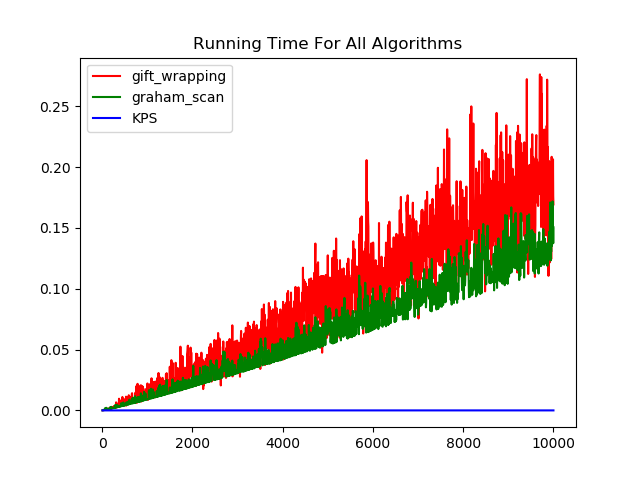
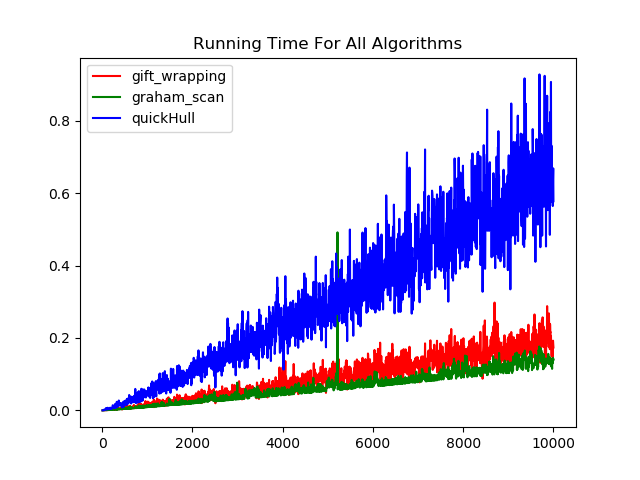
graphs generated

diff --git a/main.py b/main.py
@@ -1,8 +1,26 @@
 import time as t
 import matplotlib.pyplot as p
+# import pandas as pd
 from DataGeneration import DataGeneration
 from giftwrapping import gift_wrapping
 from graham_scan import graham_scan
+from quickHull2 import quickHull
+
+
+# def _Smoothen(numbers):
+# 	# Function to smoothen graphs using
+# 	# moving averages
+
+# 	window_size = len(numbers)
+
+# 	numbers_series = pd.Series(numbers)
+# 	windows = numbers_series.rolling(window_size)
+# 	moving_averages = windows.mean()
+
+# 	moving_averages_list = moving_averages.tolist()
+# 	without_nans = moving_averages_list[window_size - 1:]
+
+# 	return without_nans
 
 
 def main():
@@ -17,11 +35,11 @@ def main():
 	
 	inputSizes = sorted(inputs.keys())
 
+	# gift_wrapping
+
 	# Setting labels for the graphs
 	p.ylabel("Running time in microseconds")
 	p.xlabel("Input size in number of points")
-
-	# gift_wrapping
 
 	# List to store execution times
 	# for different input sizes (n values)
@@ -37,6 +55,10 @@ def main():
 		# Storing execution time for n points to plot
 		gift_wrappingExecTimes.append(endTime - startTime)
 
+
+	# # smoothening 
+	# gift_wrappingExecTimes = _Smoothen(gift_wrappingExecTimes)
+
 	# plotting and showing
 	print("Plotting ...")
 	p.plot(inputSizes, gift_wrappingExecTimes, 'r')
@@ -44,6 +66,10 @@ def main():
 	p.show()
 
 	# graham_scan
+
+	# Setting labels for the graphs
+	p.ylabel("Running time in microseconds")
+	p.xlabel("Input size in number of points")
 
 	# List to store execution times
 	# for different input sizes (n values)
@@ -59,32 +85,42 @@ def main():
 		# Storing execution time for n points to plot
 		graham_scanExecTimes.append(endTime - startTime)
 
+	# # smoothening 
+	# graham_scanExecTimes = _Smoothen(graham_scanExecTimes)
+
 	# plotting and showing
 	print("Plotting ...")
 	p.plot(inputSizes, graham_scanExecTimes, 'g')
 	p.title("graham_scan Running Time")
 	p.show()
 
-	# KPS
+	# quickHull
+
+	# Setting labels for the graphs
+	p.ylabel("Running time in microseconds")
+	p.xlabel("Input size in number of points")
 
 	# List to store execution times
 	# for different input sizes (n values)
-	KPSExecTimes = [] 
+	quickHullExecTimes = [] 
 
 	for n in inputs:
-		print("Running KPS for input size: " + str(n) + " ...")
+		print("Running quickHull for input size: " + str(n) + " ...")
 		
 		startTime = t.clock()
-		# KPS(inputs[n])
+		quickHull(inputs[n])
 		endTime = t.clock()	
 		
 		# Storing execution time for n points to plot
-		KPSExecTimes.append(endTime - startTime)
+		quickHullExecTimes.append(endTime - startTime)
+
+	# # smoothening 
+	# quickHullExecTimes = _Smoothen(quickHullExecTimes)
 
 	# plotting and showing
 	print("Plotting ...")
-	p.plot(inputSizes, KPSExecTimes, 'b')
-	p.title("KPS Running Time")
+	p.plot(inputSizes, quickHullExecTimes, 'b')
+	p.title("quickHull Running Time")
 	p.show()
 
 	# All algorithms
@@ -93,9 +129,9 @@ def main():
 	print("Plotting for all algorithms...")
 	p.plot(inputSizes, gift_wrappingExecTimes, 'r')
 	p.plot(inputSizes, graham_scanExecTimes, 'g')
-	p.plot(inputSizes, KPSExecTimes, 'b')
+	p.plot(inputSizes, quickHullExecTimes, 'b')
 	p.title("Running Time For All Algorithms")
-	p.legend(["gift_wrapping", "graham_scan", "KPS"])
+	p.legend(["gift_wrapping", "graham_scan", "quickHull"])
 	p.show()
 	
 

diff --git a/quickHull2.py b/quickHull2.py
@@ -26,13 +26,13 @@ def quickHullHelper(point_lst,n,p_1,p_2,pointSide,finalHull):
       index = i
       max_dist = val
 
-  if (ind == -1):
+  if (index == -1):
     finalHull.append(p_1)
     finalHull.append(p_2)
     return finalHull
   
-  a = quickHullHelper(point_lst,len(point_lst),point_lst[ind],p_1, -1*(findSide(point_lst[ind],p_1,p_2)),finalHull)
-  b = quickHullHelper(point_lst,len(point_lst),point_lst[ind],p_2, -1*(findSide(point_lst[ind],p_2,p_1)),a)
+  a = quickHullHelper(point_lst,len(point_lst),point_lst[index],p_1, -1*(findSide(point_lst[index],p_1,p_2)),finalHull)
+  b = quickHullHelper(point_lst,len(point_lst),point_lst[index],p_2, -1*(findSide(point_lst[index],p_2,p_1)),a)
 
   return b
 

diff --git a/DataGeneration.py b/DataGeneration.py
@@ -12,7 +12,7 @@ YMAX = 10000
 # n range
 NMIN = 10
 NMAX = 10000
-NINTERVAL = 5
+NINTERVAL = 10
 
 # =============
 
